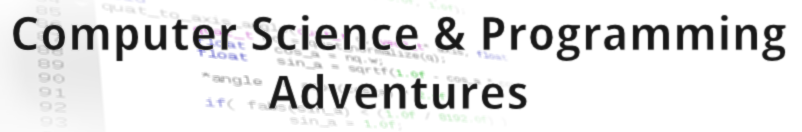
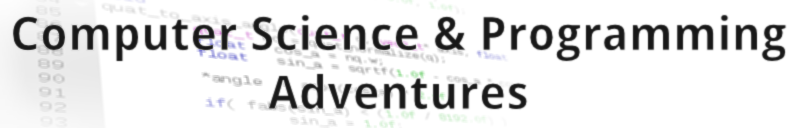
add main-page.css

diff --git a/index.html b/index.html
@@ -2,23 +2,19 @@
 <html>
 <head>
   <meta charset="utf-8">
-  <link href="./jquery-ui-1.11.4.custom/jquery-ui.css" rel="stylesheet">
+  <link href="./jquery-ui-1.11.4.custom/jquery-ui.css" rel="stylesheet"/>
   <script src="./jquery-ui-1.11.4.custom/external/jquery/jquery.js"></script>
   <script src="./jquery-ui-1.11.4.custom/jquery-ui.js"></script>
 
-  <script type="text/javascript">
-   $(function () {
-      $('#dialogMsg').dialog();
-   });
-</script>
+  <link href="./css/main-page.css" rel="stylesheet"/>
 </head>
 
 <body>
-  <div id = "#header" style="text-align:center;  border: double; margin-left: auto; margin-right: auto; width: 800px;">
-    <img src="site-header.png" style=""/>
+  <div id = "site-header">
+    <img src="site-header.png"/>
   </div>
 
-  <div id = "#body" style="text-align:center; border: double; width:800px; margin-left: auto; margin-right: auto;">
+  <div id = "site-body">
     <p>WIP</p>
   </div>
 

diff --git a/css/main-page.css b/css/main-page.css
@@ -1,0 +1,22 @@
+#site-header {
+  text-align: center;
+  border: double;
+  margin-left: auto;
+  margin-right: auto;
+  width: 800px;
+  height: 128px;
+  background-color: rgba(255, 255, 255, 0.75);
+}
+
+#site-body {
+  text-align: center;
+  border: double;
+  margin-left: auto;
+  margin-right: auto;
+  width: 800px;
+  background-color: rgba(255, 255, 255, 0.75);
+}
+
+body {
+  background-color: rgba(0, 0, 0, 0.25);
+}
